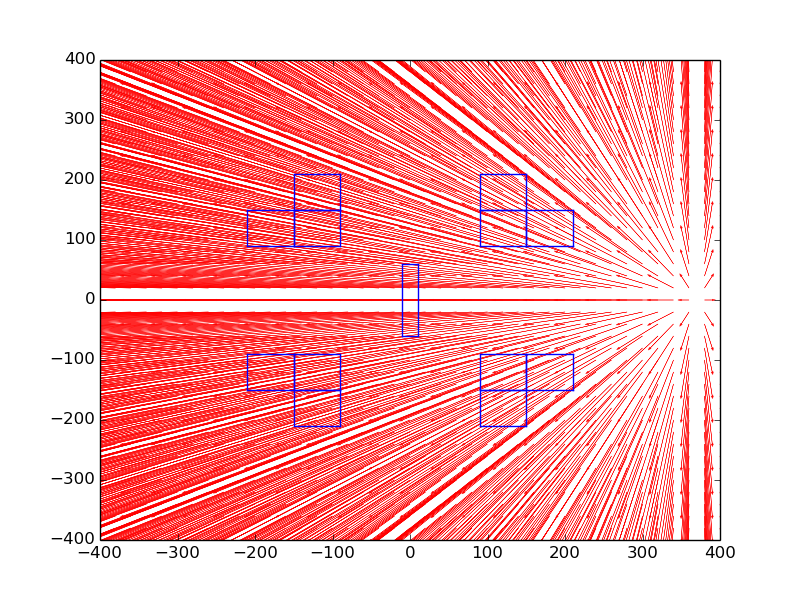
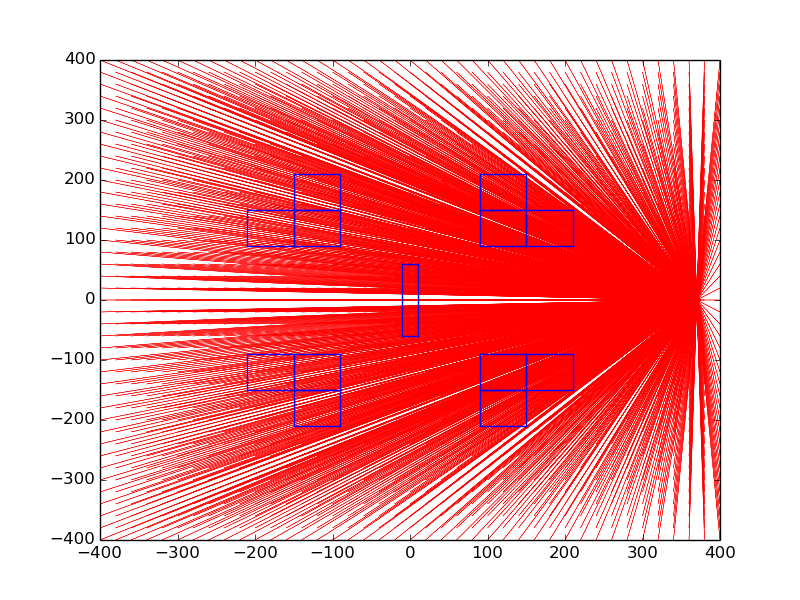
Frobbing constants stored on class. Combined force plot.

diff --git a/bzagents/PFAgent.py b/bzagents/PFAgent.py
@@ -29,11 +29,17 @@ class PFAgent(object):
         self.targetAngle = 0
         self.lastAngle = 0
 
+        # frobbing constants
+        self.O_FROB = 1
+        self.G_FROB = 1
+        self.T_FROB = 1
+        self.R_FROB = 1
+
     def tick(self, time_diff):
         self.commands = []
 
         for tank in self.mytanks:
-            x_force, y_force = self.get_forces_on_tank(tank, 1, 1, 1, 1)
+            x_force, y_force = self.get_forces_on_tank(tank)
             magnitude = math.sqrt(x_force ** 2 + y_force ** 2)
             self.targetAngle = math.atan2(y_force, x_force)
             command = Command(tank.index, magnitude, self.calculate_angvel(tank), False)
@@ -42,15 +48,15 @@ class PFAgent(object):
         if self.commands:
             self.bzrc.do_commands(self.commands)
 
-    def get_forces_on_tank(self, tank, frob_o, frob_g, frob_t, frob_r):
+    def get_forces_on_tank(self, tank):
         forces = []
         x_force = 0
         y_force = 0
 
-        forces.append(self.calculate_obstacles_force(tank, frob_o))
-        forces.append(self.calculate_goal_force(tank, frob_g))
-        forces.append(self.calculate_tangential_force(tank, frob_t))
-        forces.append(self.calculate_random_force(tank, frob_r))
+        forces.append(self.calculate_obstacles_force(tank))
+        forces.append(self.calculate_goal_force(tank))
+        forces.append(self.calculate_tangential_force(tank))
+        forces.append(self.calculate_random_force(tank))
 
         for force in forces:
             x_force += force[0]
@@ -63,7 +69,7 @@ class PFAgent(object):
         self.targetAngle = self.normalize_angle(0.5) # change this to reflect goal
         self.angles_are_initialized = True
 
-    def calculate_goal_force(self, tank, frob):
+    def calculate_goal_force(self, tank):
         if self.has_flag:
             goal = self.flag_home
         else:
@@ -72,9 +78,9 @@ class PFAgent(object):
         x_force = goal.x - tank.x
         y_force = goal.y - tank.y
 
-        return [x_force * frob, y_force * frob]
+        return [x_force * self.G_FROB, y_force * self.G_FROB]
 
-    def calculate_obstacles_force(self, tank, frob):
+    def calculate_obstacles_force(self, tank):
         x_force = 0
         y_force = 0
         for obstacle in self.obstacles:
@@ -82,7 +88,7 @@ class PFAgent(object):
             x_force += forces[0]
             y_force += forces[1]
 
-        return [x_force * frob, y_force * frob]
+        return [x_force * self.O_FROB, y_force * self.O_FROB]
 
     def get_obstacle_force(self, obstacle, tank):
         d = 50  # maximum radius of influence
@@ -112,7 +118,7 @@ class PFAgent(object):
         # if we're within radius of influence
         return [-1 * (d - tank_distance) * math.cos(angle), -1 * (d - tank_distance) * math.sin(angle)]
 
-    def calculate_tangential_force(self, tank, frob):
+    def calculate_tangential_force(self, tank):
         x_force = 0
         y_force = 0
         for obstacle in self.obstacles:
@@ -122,10 +128,10 @@ class PFAgent(object):
             angle = self.normalize_angle(angle + 1.57)  # adds 90 degrees, normalizes angle
             x_force += magnitude * math.cos(angle)
             y_force += magnitude * math.sin(angle)
-        return [x_force * frob, y_force * frob]
+        return [x_force * self.T_FROB, y_force * self.T_FROB]
 
-    def calculate_random_force(self, tank, frob):
-        return [random.randint(-10, 10) * frob, random.randint(-10, 10) * frob]
+    def calculate_random_force(self, tank):
+        return [random.randint(-10, 10) * self.R_FROB, random.randint(-10, 10) * self.R_FROB]
 
     def calculate_angvel(self, tank):
         target = self.two_pi_normalize(self.targetAngle)

diff --git a/bzagents/show_field.py b/bzagents/show_field.py
@@ -44,7 +44,7 @@ def show_arrows(plot, potential_func, xlim=(-400, 400), ylim=(-400, 400), res=20
     plot.set_ylim(ylim)
     for x in range(xlim[0], xlim[1] + res, res):
         for y in range(ylim[0], ylim[1] + res, res):
-            force = potential_func(DummyTank(x, y), 1)
+            force = potential_func(DummyTank(x,  y))
             dx = force[0]
             dy = force[1]
             if dx + dy == 0: continue
@@ -68,6 +68,7 @@ class DummyTank(object):
          self.x = x
          self.y = y
 
+
 def main():
     # Process CLI arguments.
     try:
@@ -87,6 +88,8 @@ def main():
     plot_single(agent.calculate_goal_force, agent.obstacles, 'goal.png')
     plot_single(agent.calculate_random_force, agent.obstacles, 'random.png')
     plot_single(agent.calculate_tangential_force, agent.obstacles, 'tangential.png')
+
+    plot_single(agent.get_forces_on_tank, agent.obstacles, 'combined.png')
 
     print("finished")
     bzrc.close()
